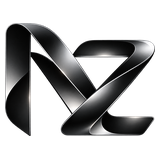
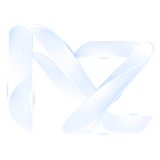
feat(brand): silver NZ mark in the dark theme
The dark theme's in-app mark now comes from dark-silver.webp (silver chrome
on black). build_brand.py un-blends it from black to recover transparency, so
it looks as drawn on black and its glow fades into the dark stage; it reads
clearly at sidebar size where the black chrome mark faded out. The app icon
and social card keep the dark chrome source.

Claude-Session: https://claude.ai/code/session_014ZpZwJtQAZZnaNCfkyVXrx

diff --git a/src/components/logo.tsx b/src/components/logo.tsx
@@ -12,8 +12,8 @@ export function SparkleIcon({ className }: { className?: string }) {
 }
 
 /**
- * The NZAP Labs "NZ" ribbon. The dark rendition carries the edge highlights
- * that keep the black chrome readable on a dark stage.
+ * The NZAP Labs "NZ" ribbon: black chrome on light themes, silver chrome
+ * (with its own soft glow) on dark ones.
  */
 export function LogoMark({ className }: { className?: string }) {
   return (
@@ -30,7 +30,7 @@ export function LogoMark({ className }: { className?: string }) {
         alt=""
         aria-hidden
         draggable={false}
-        className="hidden size-full object-contain drop-shadow-[0_0_12px_rgba(255,255,255,0.28)] dark:block"
+        className="hidden size-full object-contain drop-shadow-[0_0_10px_rgba(255,255,255,0.12)] dark:block"
       />
     </span>
   )

diff --git a/brand/build_brand.py b/brand/build_brand.py
@@ -1,12 +1,15 @@
 """Build NZAP brand assets from the source logos.
 
-Sources (transparent PNGs, 1536x1024): light.png (black chrome, for light
-backgrounds) and dark.png (chrome with bright edge highlights, for dark ones).
+Sources (1536x1024): light.png (black chrome, for light backgrounds) and
+dark.png (chrome with bright edge highlights, for dark ones), both
+transparent, plus dark-silver.webp (silver chrome on solid black), the
+in-app mark of the dark theme.
 """
 
 import sys
 from pathlib import Path
 
+import numpy as np
 from PIL import Image, ImageDraw, ImageFilter
 
 SRC = Path(sys.argv[1])
@@ -25,6 +28,21 @@ def solid_alpha(image, threshold=24):
 
 
 light, dark = solid_alpha(light), solid_alpha(dark)
+
+
+def from_black(image, floor=6):
+    """Un-blend artwork rendered on solid black: alpha is the brightest
+    channel and colour is divided by it, so the result composited over black
+    is the original, and its glow fades into any dark stage."""
+    rgb = np.asarray(image.convert("RGB")).astype(np.float64)
+    peak = rgb.max(axis=2)
+    alpha = np.clip((peak - floor) / (255 - floor), 0, 1)
+    colour = np.where(peak[..., None] > 0, rgb * 255 / np.maximum(peak, 1)[..., None], 0)
+    out = np.dstack([np.clip(colour, 0, 255), alpha * 255]).round().astype(np.uint8)
+    return Image.fromarray(out, "RGBA")
+
+
+silver = solid_alpha(from_black(Image.open(SRC / "dark-silver.webp")))
 
 
 def split_rows(image):
@@ -65,6 +83,8 @@ def square(image, size, fill=0.86):
 
 mark_light = trim(light.crop((0, 0, light.width, mark_bottom)))
 mark_dark = trim(dark.crop((0, 0, dark.width, mark_bottom)))
+silver_bottom, _ = split_rows(silver)
+mark_silver = trim(silver.crop((0, 0, silver.width, silver_bottom)))
 full_light = trim(light)
 full_dark = trim(dark)
 
@@ -145,8 +165,9 @@ og.convert("RGB").save(OUT / "og-card.png", optimize=True)
 
 print("wrote", sorted(p.name for p in OUT.iterdir()))
 
-# Small sizes for in-app use (2x of the largest rendering).
-for name, mark in (("light", mark_light), ("dark", mark_dark)):
+# Small sizes for in-app use (2x of the largest rendering). The dark theme
+# uses the silver mark; the app icon keeps the dark chrome one.
+for name, mark in (("light", mark_light), ("dark", mark_silver)):
     square(mark, 160, fill=0.94).save(OUT / f"nzap-mark-{name}-160.png", optimize=True)
 favicon(64).save(OUT / "favicon-64.png", optimize=True)
 print("small sizes done")

diff --git a/brand/README.md b/brand/README.md
@@ -1,19 +1,25 @@
 # Brand assets
 
-`src/light.png` (black chrome, for light backgrounds) and `src/dark.png`
-(chrome with edge highlights, for dark backgrounds) are the NZAP Labs logo
+`src/light.png` (black chrome, for light backgrounds), `src/dark.png` (chrome
+with edge highlights, for dark backgrounds) and `src/dark-silver.webp` (silver
+chrome on solid black, the dark theme's in-app mark) are the NZAP Labs logo
 sources. Everything else is generated:
 
 ```bash
-python brand/build_brand.py brand/src <out-dir>   # needs Pillow
+python brand/build_brand.py brand/src <out-dir>   # needs Pillow and NumPy
 npx tauri icon <out-dir>/app-icon-1024.png -o <tmp>  # then copy the files listed in tauri.conf.json
 ```
 
-| Output                       | Used for                                            |
-| ---------------------------- | --------------------------------------------------- |
-| `app-icon-1024.png`          | source of `src-tauri/icons/*` (dock, taskbar, tray) |
-| `nzap-mark-{light,dark}-160` | `src/assets/brand`, the in-app logo per theme       |
-| `nzap-word-mask.png`         | "NZΛP" lettering, tinted with CSS `mask-image`      |
-| `nzap-wordmark-mask.png`     | "NZΛP LABS" lettering                               |
-| `favicon-64.png`             | `public/favicon.png`                                |
-| `og-card.png`                | social preview (website)                            |
+| Output                   | Used for                                                    |
+| ------------------------ | ----------------------------------------------------------- |
+| `app-icon-1024.png`      | source of `src-tauri/icons/*` (dock, taskbar, tray)         |
+| `nzap-mark-light-160`    | `src/assets/brand`, the in-app logo on light themes         |
+| `nzap-mark-dark-160`     | `src/assets/brand`, the in-app logo on dark themes (silver) |
+| `nzap-word-mask.png`     | "NZΛP" lettering, tinted with CSS `mask-image`              |
+| `nzap-wordmark-mask.png` | "NZΛP LABS" lettering                                       |
+| `favicon-64.png`         | `public/favicon.png`                                        |
+| `og-card.png`            | social preview (website)                                    |
+
+`dark-silver.webp` has no transparency; the script recovers it by un-blending
+from black (alpha is the brightest channel), so the mark looks exactly as drawn
+on black and its glow fades into any dark background.
